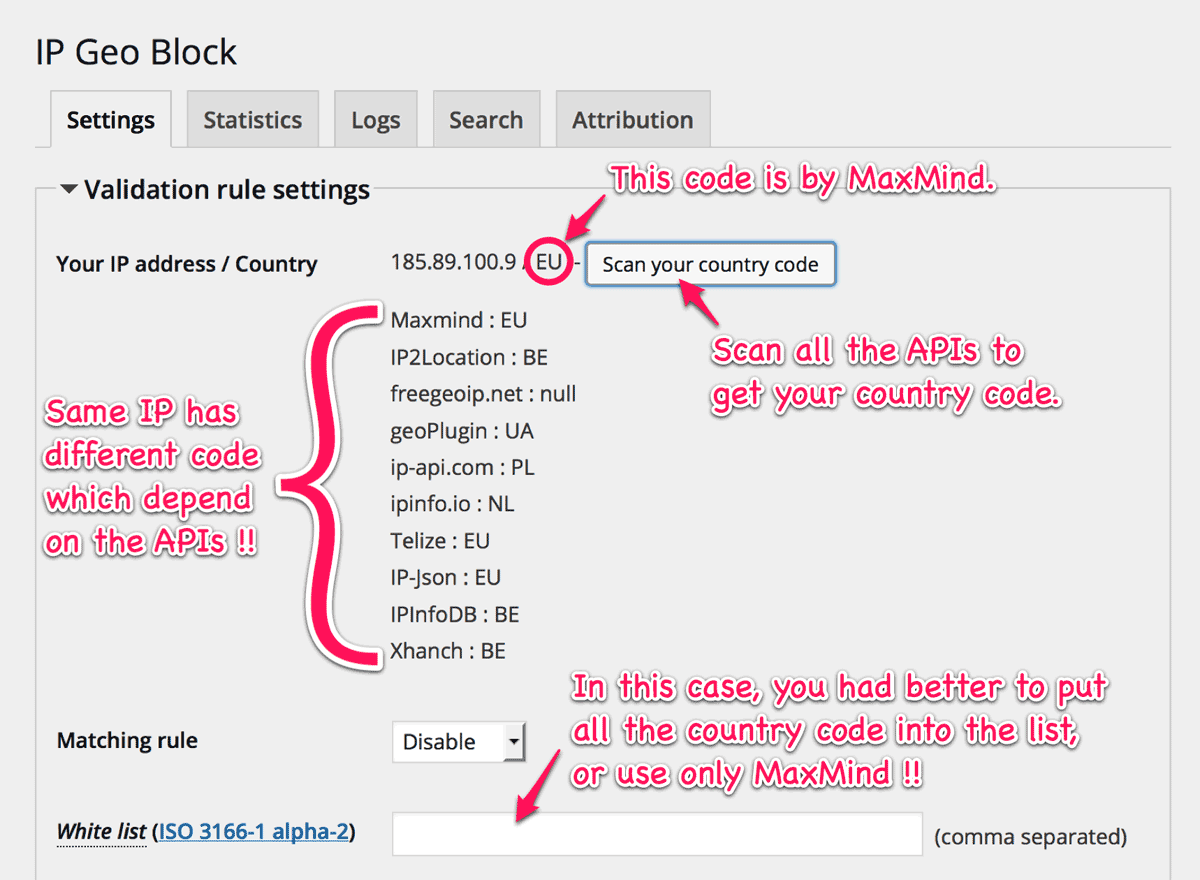
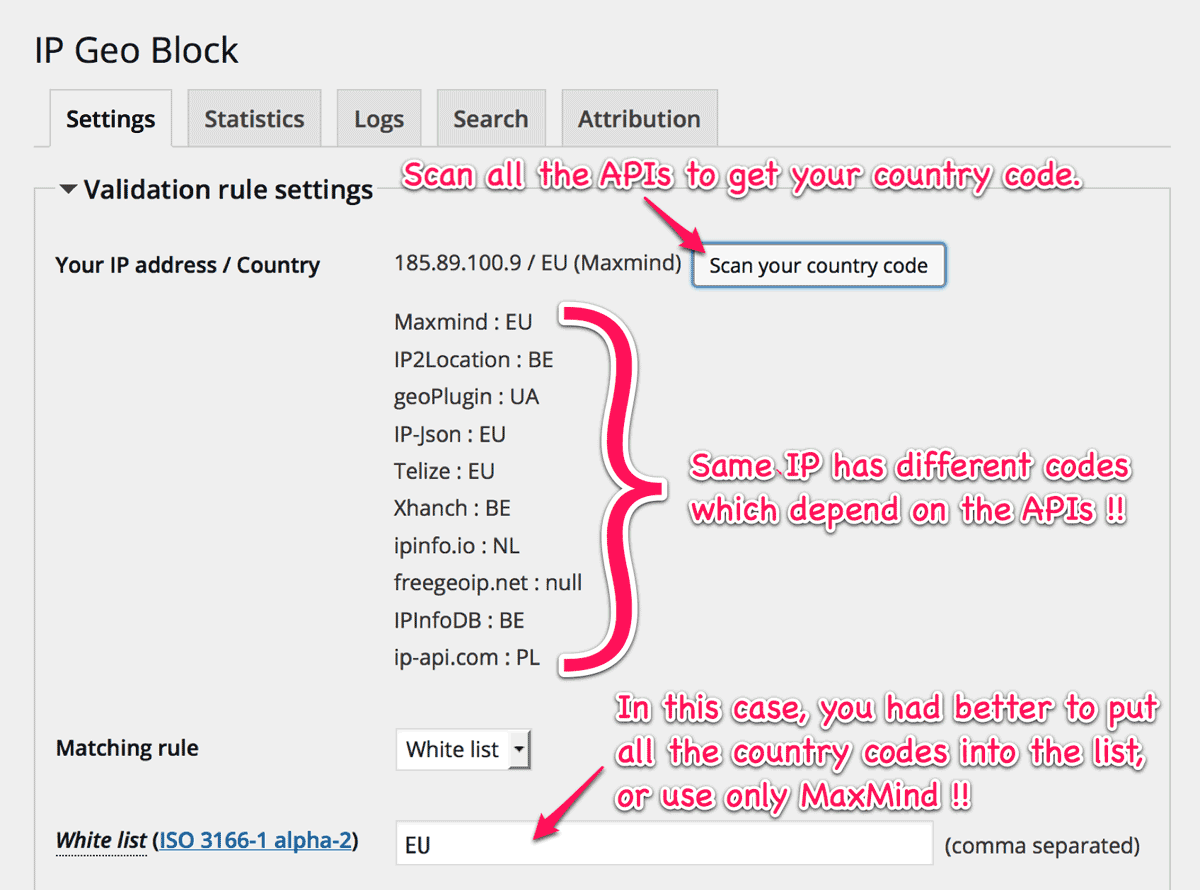
Update changelog.

diff --git a/_drafts/2015-09-22-release-2.1.5.md b/_drafts/2015-09-22-release-2.1.5.md
@@ -19,18 +19,20 @@ the first installation. This was the reason why I got one <span class="emoji">
 
 ### <span id="sec1">Preventing self blocking at the first installation</span> ###
 
-Actually, [the issue][BeCareful] was not a bug but the matter of desing.
+Actually, [the issue][BeCareful] was not a bug but the matter of design.
 For the user's convenience, this plugin will automatically set the proper 
 country code into the white list when the user install it for the fist time.
 
 In the previous release, when this plugin could not get the proper country 
 code for some reasons from MaxMind database, it would try to use other Free 
 Geolocation APIs until it got the proper one. But sometimes this mechanism 
-would cause a issue because in such a case the country code is not stable 
+would cause an issue because in such a case the country code is not stable 
 amoung the APIs.
 
-One of users, whose name is "internationils", gave me [a nice idea][nice-idea]:
-"A button to scan all selected APIs for the current IP".
+Nils gave me [a nice suggestion][nice-idea]:
+
+> maybe a button to scan all selected APIs for the current IP would be helpful 
+> too?
 
 Yeah, that's a splendid idea !!
 
@@ -38,46 +40,47 @@ Yeah, that's a splendid idea !!
  "Different country code"
 )
 
-{% highlight php startinline linenos %}
-code
-{% endhighlight %}
+Yet even with this new feature, I can't decide if this plugin should put all 
+the country codes into the list automatically, because there's a possibility 
+that those codes would be undesired.
 
-<!-- html+php, css+php, js+php -->
-```html
-code
-```
+And futher more, if the ISP provides us a dynamic IP address, another 
+possibility will come to block ourselves with this initial setting.
 
-<!-- success, info, warning, danger -->
-<div class="alert alert-info" role="alert">
-	Information
-</div>
+So I decided that the validation setting for "**Login form**" is to be 
+"**Block by country (register, lost password)**" by default. It will prevent 
+to block out a user who are logged in as an administrator.
 
-| Left-Aligned  | Center Aligned  | Right Aligned |
-|:--------------|:---------------:|--------------:|
-| col 3 is      | some wordy text |         $1600 |
-| col 2 is      | centered        |           $12 |
-| zebra stripes | are neat        |            $1 |
+I believe this design is the most balanced between convenient and inconvenient.
 
-<div class="table-responsive">
-	<cite></cite>
-	<table class="table">
-		<thead>
-			<tr>
-				<th>title1</th>
-				<th>title2</th>
-			</tr>
-		</thead>
-		<tbody>
-			<tr>
-				<td>content1</td>
-				<td>content2</td>
-			</tr>
-		</tbody>
-		<caption>caption</caption>
-	</table>
-</div>
+### <span id="sec2">Pie chart for "Blocked by countries"</span> ###
 
-[release214]: {{ "/changelog/release-2.1.4.html#sec3" | prepend: site.baseurl }} "Release Note 2.1.4"
-[BeCareful]: https://wordpress.org/support/topic/be-careful-17 "WordPress › Support » Be Careful"
-[nice-idea]: https://wordpress.org/support/topic/locked-out-due-to-eu-vs-country#post-7339643 "WordPress › Support » Locked out due to EU vs. Country"
+This is a substitution of a dull list for "**Blocked by countries**" using 
+[Google Chart library][GoogleChart]. Although it's so not useful, I think it's 
+better than to display poor list.
+
+![Blocked by countries]({{ "/img/2015-09/PieChart.png" | prepend: site.baseurl }}
+ "Blocked by countries"
+)
+
+### <span id="sec3">Bug fix: Illegal handling of fragment in URL</span> ###
+
+If you enables "**Prevent zero-day exploit**" for "**Admin area**", you would 
+encounter the "**Forbidden**" message with a click at a certain link. It was 
+caused by inappropriate handling for the [Fragment identifier][Fragment] in URL.
+
+![URL with Fragment]({{ "/img/2015-09/URLwithFragment.png" | prepend: site.baseurl }}
+ "URL with Fragment"
+)
+
+Now this issue has been fixed.
+<span class="emoji">
+![emoji](https://assets-cdn.github.com/images/icons/emoji/unicode/1f341.png)
+</span>
+
+[release214]:   {{ "/changelog/release-2.1.4.html#sec3" | prepend: site.baseurl }} "Release Note 2.1.4"
+[BeCareful]:    https://wordpress.org/support/topic/be-careful-17 "WordPress › Support » Be Careful"
+[nice-idea]:    https://wordpress.org/support/topic/locked-out-due-to-eu-vs-country#post-7339643 "WordPress › Support » Locked out due to EU vs. Country"
+[GoogleChart]:  https://developers.google.com/chart/ "Charts | Google Developers"
+[Fragment]:     https://en.wikipedia.org/wiki/Fragment_identifier "Fragment identifier - Wikipedia, the free encyclopedia"
 [IP-Geo-Block]: https://wordpress.org/plugins/ip-geo-block/ "WordPress › IP Geo Block « WordPress Plugins"
